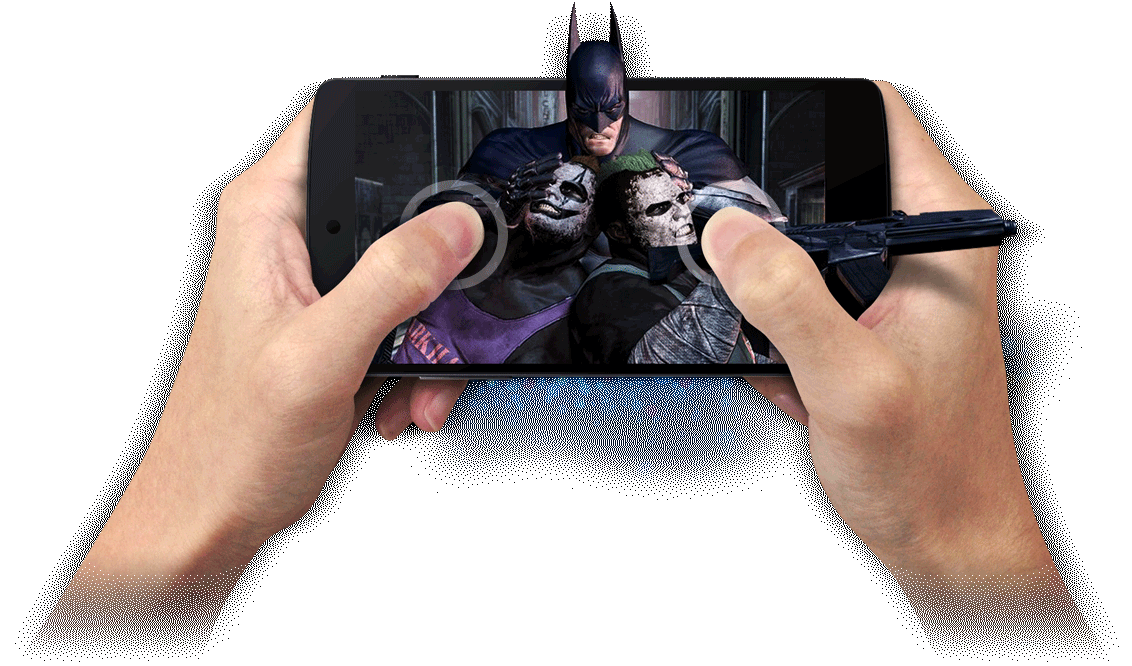
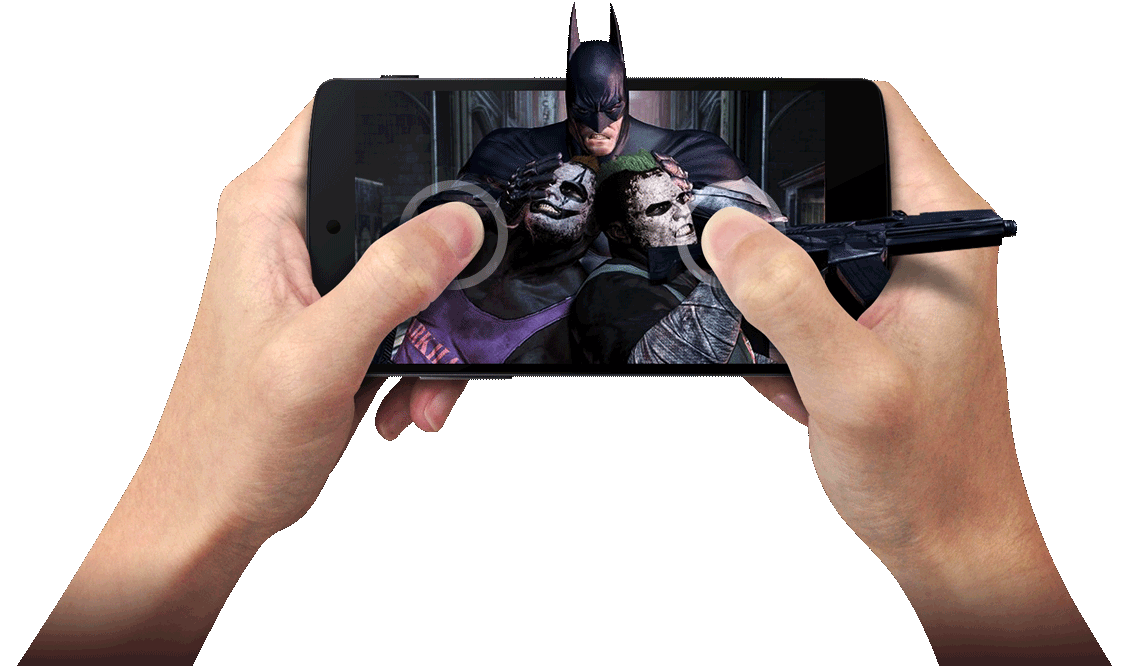
cht

diff --git a/css/style.css b/css/style.css
@@ -674,13 +674,23 @@ body.about-cht::after,body.about-cht::before{
 }
 
 .joystick{
-	background: url(../img/mobile.png) center 0 no-repeat;
+	background: url(../img/mobile-shadow.png) center 0 no-repeat;
 	width: 100%;
 	height: 666px;
 	position: absolute;
 	top: 230px;
 	text-align: center;
 	color:#fff;
+}
+
+.joystick::after{
+	position: absolute;
+	background: url(../img/mobile.png) center 0 no-repeat;
+	width: 100%;
+	height: 666px;
+	top: 0;
+	left: 0;
+	content: '';
 }
 
 .joystick .des{
@@ -690,7 +700,9 @@ body.about-cht::after,body.about-cht::before{
     background:rgba(0,0,0,0.5);
     margin:485px auto 0;
     padding: 10px;
-    border-radius: 5px
+    border-radius: 5px;
+    position: relative;
+    z-index: 2;
 }
 
 .store-link{
@@ -868,6 +880,10 @@ body.about-cht::after,body.about-cht::before{
   	background-size: 900px;
   	background-position: top center;
   }
+  .joystick::after{
+  	background-size: 900px;
+  	background-position: top center;
+  }
   .joystick .des{
 	font-size: 12px;
 	line-height: 16px;
@@ -948,8 +964,7 @@ body.about-cht::after,body.about-cht::before{
   .logo-cht{
 	height: 40px;
   }
-  .joystick{
-  }
+
   .joystick .des{
 	font-size: 11px;
 	line-height: 16px;
